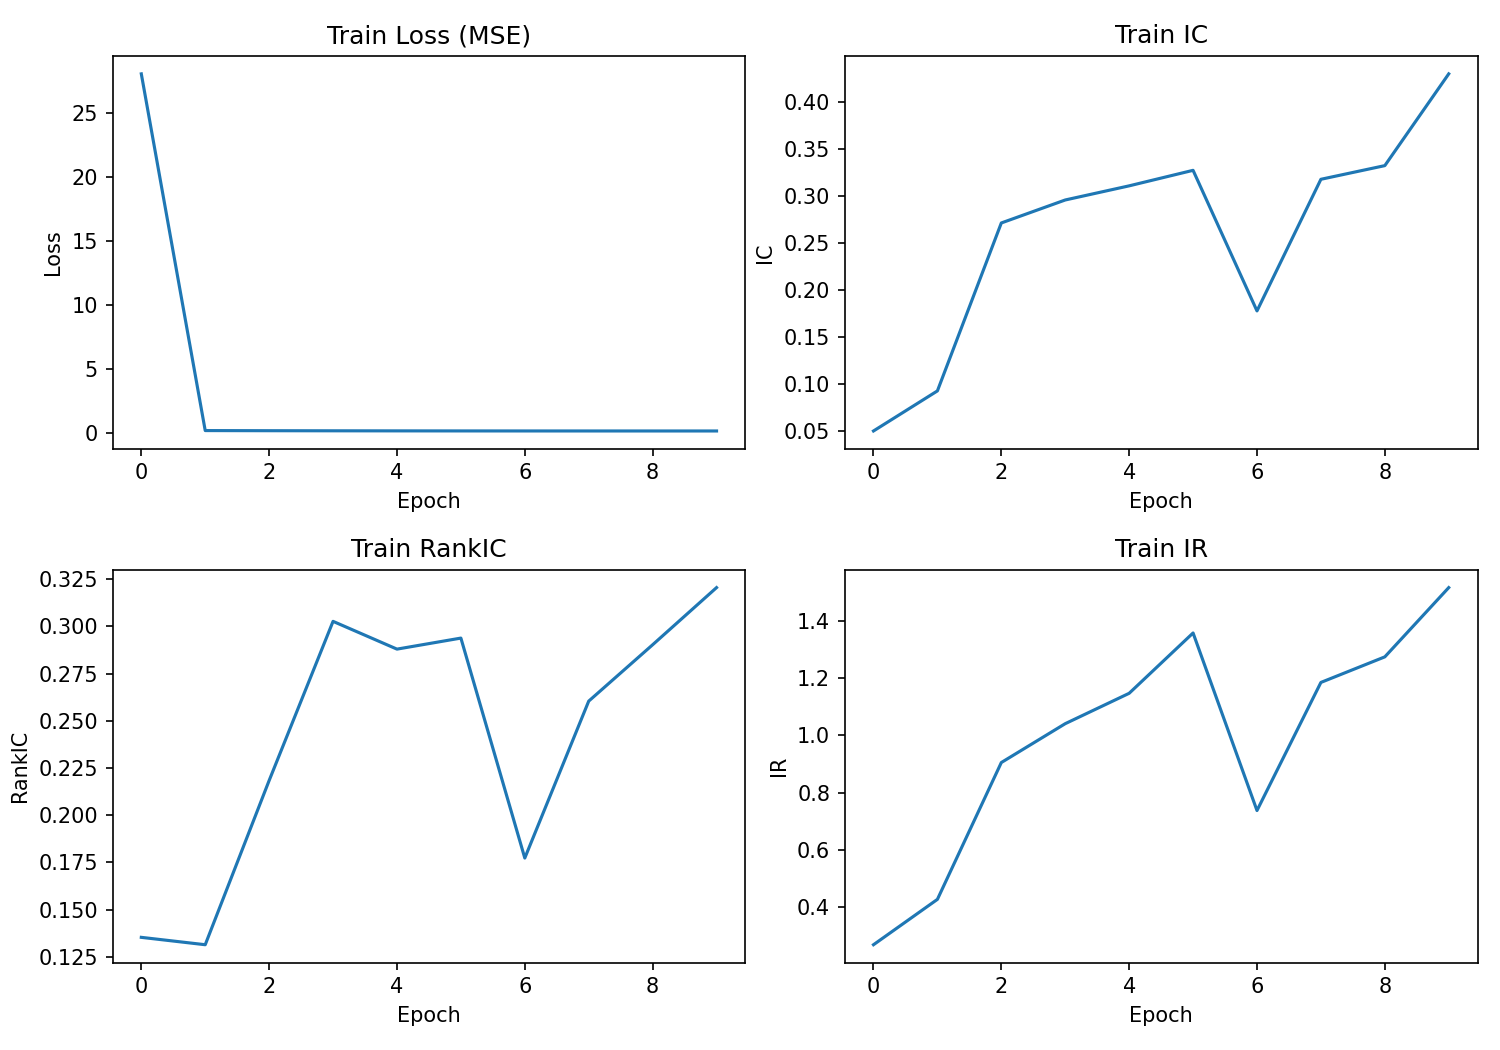
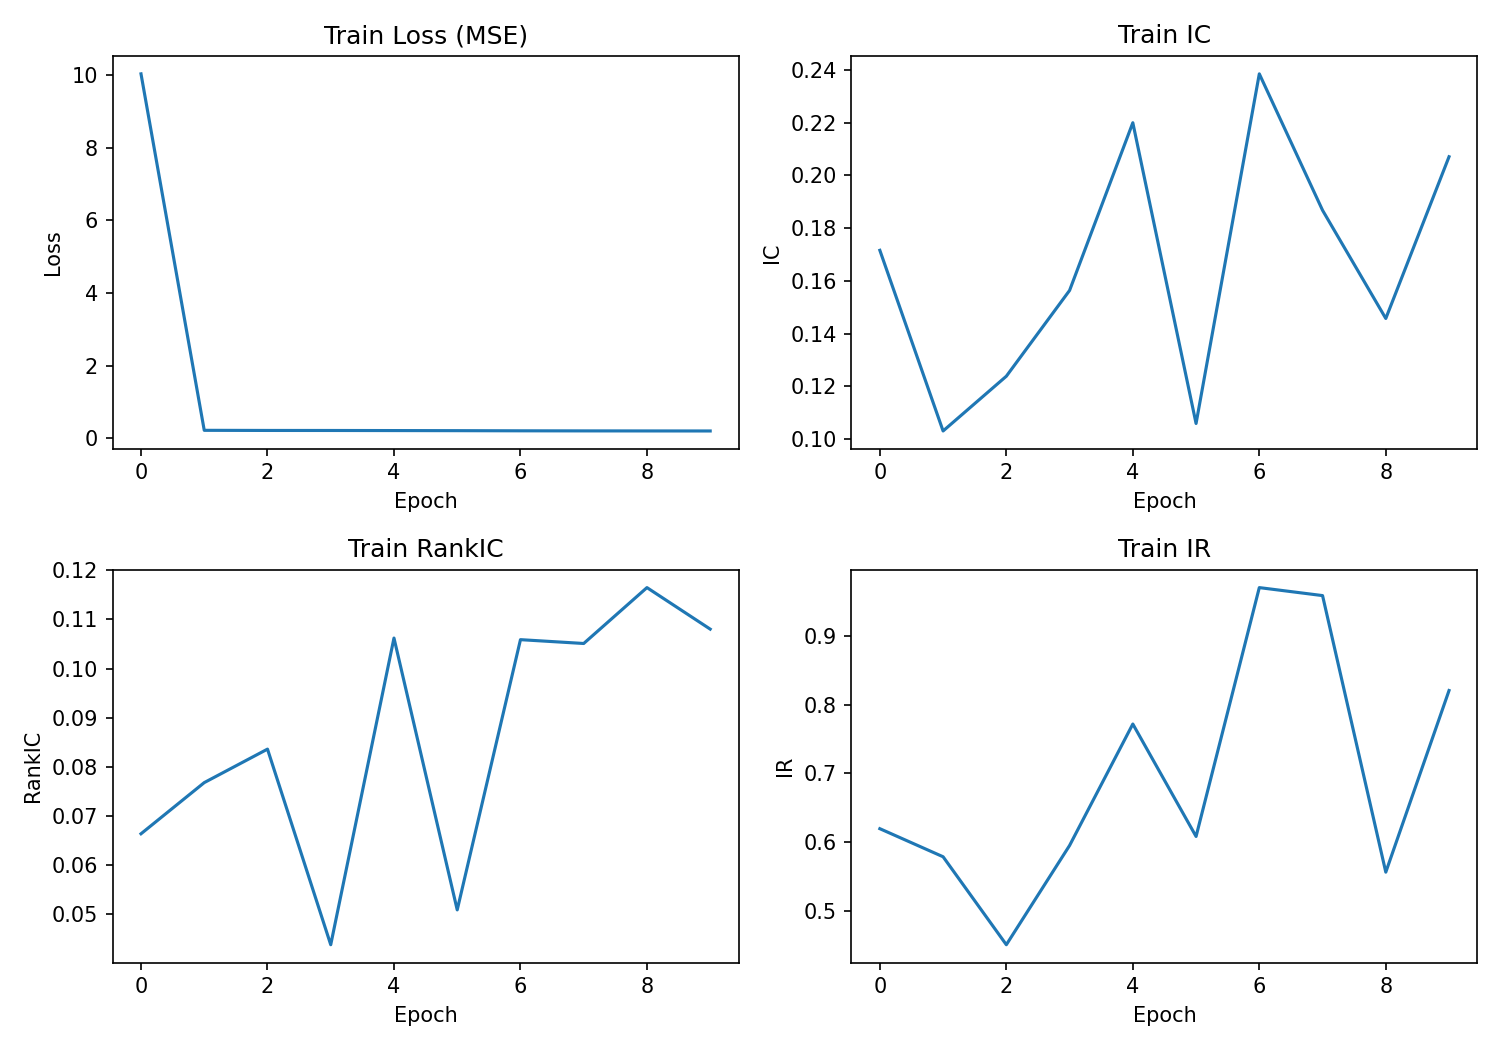
添加不同 linear attn 作为变种

diff --git a/KimiLinear/attn/gla_attn.py b/KimiLinear/attn/gla_attn.py
@@ -10,6 +10,7 @@ import torch.nn as nn
 import torch.nn.functional as F
 from einops import rearrange, repeat
 
+from KimiLinear.configuration import KimiLinearConfig
 from fla.layers.utils import get_unpad_data, index_first_axis, pad_input
 from fla.modules import FusedRMSNormGated, RMSNorm, ShortConvolution
 from fla.modules.activations import ACT2FN
@@ -22,63 +23,16 @@ if TYPE_CHECKING:
 
 
 class GatedLinearAttention(nn.Module):
-    r"""
-    The layer implementaion for [Gated Linear Attention Transformers with Hardware-Efficient Training](https://arxiv.org/abs/2312.06635).  # noqa
-
-    Args:
-        mode (str, Optional):
-            Which GLA kernel to use.
-            Currently available: `chunk`, `fused_recurrent`, and `fused_chunk`.
-            Default: `chunk`.
-        hidden_size (int, Optional):
-            The hidden size of the input. Default: 1024.
-        expand_k (float, Optional):
-            The expansion ratio for the key dim. Default: 0.5.
-        expand_v (float, Optional):
-            The expansion ratio for the value dim. Default: 1.0.
-        num_heads (int, Optional):
-            The number of heads. Default: 4.
-        num_kv_heads (int, Optional):
-            The number of key/value heads, used for MQA. Default: None.
-        feature_map (str, Optional):
-            Feature map function applied to queries/keys. Default: None.
-        use_short_conv (bool, Optional):
-            Whether to use short convolutions. Default: `False`.
-        conv_size (int, Optional):
-            The kernel size of the short convolution, only used when `use_short_conv` is `True`. Default: 4.
-        conv_bias (bool, Optional):
-            Whether to use bias in the short convolution, only used when `use_short_conv` is `True`. Default: `False`.
-        use_output_gate (bool, Optional):
-            Whether to use output gate. Default: `True`.
-        gate_fn (str, Optional):
-            The activation function for the output gate. Default: `swish`.
-        elementwise_affine (bool, Optional):
-            If `True`, applies elementwise affine to LayerNorm with learnable parameters. Default: `True`.
-        norm_eps (float, Optional):
-            The epsilon value for the layernorm/rmsnorm layer. Default: 1e-5.
-        gate_logit_normalizer (int, Optional):
-            The normalizer for the gate logits, appied after `logsigmoid`. Default: 16.
-        gate_low_rank_dim (int, Optional):
-            The low rank dim for the gate projection. Default: 16.
-        clamp_min (float, Optional):
-            The minimum value for the gate logits. Default: None.
-        fuse_norm (bool, Optional):
-            Whether to fuse the norm and the output gate for better memory footprint. Default: `True`.
-        layer_idx (int, Optional):
-            The index of the layer. Default: None.
-    """
-
     def __init__(
         self,
+        config: KimiLinearConfig,
+        layer_idx: int,
         mode: str = 'chunk',
-        hidden_size: int = 1024,
-        expand_k: float = 0.5,
+        expand_k: float = 1.0,
         expand_v: float = 1.0,
-        num_heads: int = 4,
         num_kv_heads: int | None = None,
         feature_map: str | None = None,
-        use_short_conv: bool = False,
-        conv_size: int = 4,
+        use_short_conv: bool = True,
         conv_bias: bool = False,
         use_output_gate: bool = True,
         gate_fn: str = 'swish',
@@ -88,9 +42,12 @@ class GatedLinearAttention(nn.Module):
         gate_low_rank_dim: int = 16,
         clamp_min: float | None = None,
         fuse_norm: bool = True,
-        layer_idx: int = None,
     ) -> GatedLinearAttention:
         super().__init__()
+
+        hidden_size = config.hidden_size
+        num_heads = config.linear_attn_config["num_heads"]
+        conv_size = config.linear_attn_config["short_conv_kernel_size"]
 
         self.mode = mode
         self.hidden_size = hidden_size
@@ -187,7 +144,8 @@ class GatedLinearAttention(nn.Module):
             )
 
         batch_size, q_len, _ = hidden_states.shape
-        mode = 'fused_recurrent' if hidden_states.shape[1] <= 64 else self.mode
+        # mode = 'fused_recurrent' if hidden_states.shape[1] <= 64 else self.mode
+        mode = "chunk"
 
         last_state = None
         if past_key_values is not None and len(past_key_values) > self.layer_idx:
@@ -297,4 +255,4 @@ class GatedLinearAttention(nn.Module):
         if attention_mask is not None:
             o = pad_input(o.squeeze(0), indices, batch_size, q_len)
 
-        return o, None, past_key_values
+        return o

diff --git a/fla/ops/common/chunk_h.py b/fla/ops/common/chunk_h.py
@@ -19,11 +19,12 @@ BKV_LIST = [32, 64] if check_shared_mem() else [16, 32]
 })
 @triton.autotune(
     configs=[
-        triton.Config({'BK': BK, 'BV': BV}, num_warps=num_warps, num_stages=num_stages)
+        # triton.Config({'BK': BK, 'BV': BV}, num_warps=num_warps, num_stages=num_stages)
+        triton.Config({'BK': BK, 'BV': BV})
         for BK in BKV_LIST
         for BV in BKV_LIST
-        for num_warps in [1, 2, 4, 8]
-        for num_stages in [2, 3, 4]
+        # for num_warps in [1, 2, 4, 8]
+        # for num_stages in [1, 2]
     ],
     key=['BT', 'USE_G', 'USE_GK', 'USE_GV'],
     **autotune_cache_kwargs,
@@ -58,15 +59,20 @@ def chunk_fwd_kernel_h(
     IS_VARLEN: tl.constexpr,
 ):
     i_k, i_v, i_nh = tl.program_id(0), tl.program_id(1), tl.program_id(2)
-    i_n, i_h = i_nh // H, i_nh % H
+    i_n = i_nh // H
+    i_h = i_nh % H
     if IS_VARLEN:
-        bos, eos = tl.load(cu_seqlens + i_n).to(tl.int32), tl.load(cu_seqlens + i_n + 1).to(tl.int32)
+        bos = tl.load(cu_seqlens + i_n).to(tl.int32)
+        eos = tl.load(cu_seqlens + i_n + 1).to(tl.int32)
         T = eos - bos
-        NT, NS = tl.cdiv(T, BT), tl.cdiv(T, BS)
+        NT = tl.cdiv(T, BT)
+        NS = tl.cdiv(T, BS)
         boh = tl.load(split_offsets + i_n).to(tl.int32)
     else:
-        bos, eos = i_n * T, i_n * T + T
-        NT, NS = tl.cdiv(T, BT), tl.cdiv(T, BS)
+        bos = i_n * T
+        eos = i_n * T + T
+        NT = tl.cdiv(T, BT)
+        NS = tl.cdiv(T, BS)
         boh = i_n * NS
     NTS = BS // BT
 
@@ -146,11 +152,12 @@ def chunk_fwd_kernel_h(
 })
 @triton.autotune(
     configs=[
-        triton.Config({'BK': BK, 'BV': BV}, num_warps=num_warps, num_stages=num_stages)
+        # triton.Config({'BK': BK, 'BV': BV}, num_warps=num_warps, num_stages=num_stages)
+        triton.Config({'BK': BK, 'BV': BV})
         for BK in BKV_LIST
         for BV in BKV_LIST
-        for num_warps in [1, 2, 4, 8]
-        for num_stages in [2, 3, 4]
+        # for num_warps in [1, 2, 4, 8]
+        # for num_stages in [2, 3, 4]
     ],
     key=['BT', 'USE_G', 'USE_GK', 'USE_GV'],
     **autotune_cache_kwargs,
@@ -188,16 +195,19 @@ def chunk_bwd_kernel_dh(
     IS_VARLEN: tl.constexpr,
 ):
     i_k, i_v, i_nh = tl.program_id(0), tl.program_id(1), tl.program_id(2)
-    i_n, i_hq = i_nh // HQ, i_nh % HQ
+    i_n = i_nh // HQ
+    i_hq = i_nh % HQ
     i_h = i_hq // NG
     if IS_VARLEN:
-        bos, eos = tl.load(cu_seqlens + i_n).to(tl.int32), tl.load(cu_seqlens + i_n + 1).to(tl.int32)
+        bos = tl.load(cu_seqlens + i_n).to(tl.int32)
+        eos = tl.load(cu_seqlens + i_n + 1).to(tl.int32)
         T = eos - bos
         NT = tl.cdiv(T, BT)
         NS = tl.cdiv(T, BS)
         boh = tl.load(split_offsets + i_n).to(tl.int32)
     else:
-        bos, eos = i_n * T, i_n * T + T
+        bos = i_n * T
+        eos = i_n * T + T
         NT = tl.cdiv(T, BT)
         NS = tl.cdiv(T, BS)
         boh = i_n * NS

diff --git a/baseline_inference.py b/baseline_inference.py
@@ -60,13 +60,14 @@ def parse_args():
     parser.add_argument("--mmap-mode", type=str, default="r")
     parser.add_argument("--time-stride", type=int, default=3)
     parser.add_argument("--T_cycle", type=int, default=1)
+    parser.add_argument("--attn_type", type=str, default="gla", choices=["kda", "cyclekda", "gated_deltanet", "gla"])
     parser.add_argument("--batch-size", type=int, default=64)
     parser.add_argument("--num-workers", type=int, default=0)
-    parser.add_argument("--ckpt-dir", type=str, default="baseline_kimi_ckpt")
+    parser.add_argument("--ckpt-dir", type=str, default="gla_ckpt")
     parser.add_argument("--weights-file", type=str, default="pytorch_model.bin")
     parser.add_argument("--max-test-samples", type=int, default=0, help="0 means all test samples")
     parser.add_argument("--output-dir", type=str, default="/home/chenxuanyu/code/CycleKDA/pred2", help="Directory for inference outputs.")
-    parser.add_argument("--pred-out", type=str, default="baseline_test_pred.npy")
+    parser.add_argument("--pred-out", type=str, default="gla_test_pred.npy")
     return parser.parse_args()
 
 
@@ -77,6 +78,7 @@ def load_model(args, input_size, output_size):
 
     cfg_json["input_size"] = input_size
     cfg_json["output_size"] = output_size
+    cfg_json["attn_type"] = args.attn_type
     config = KimiLinearConfig(**cfg_json)
     config.linear_attn_config["T_cycle"] = args.T_cycle
 
@@ -166,8 +168,11 @@ def evaluate_and_save(args):
 
 
 def main():
+    global MODEL_DTYPE
     args = parse_args()
     assert args.T_cycle == 1, "baseline inference expects T_cycle == 1"
+    if (args.attn_type == "gated_deltanet") and MODEL_DTYPE == torch.bfloat16:
+        MODEL_DTYPE = torch.float32
     evaluate_and_save(args)
 
 

diff --git a/evaluate.py b/evaluate.py
@@ -53,9 +53,9 @@ def parse_args():
 	parser.add_argument("--labels-file", type=str, default="labels.npy")
 	parser.add_argument("--indexes-file", type=str, default="index.h5")
 	parser.add_argument("--mmap-mode", type=str, default="r")
-	parser.add_argument("--pred-path", type=str, default="/home/chenxuanyu/code/CycleKDA/pred2/lstm_test_pred.npy")
-	parser.add_argument("--output-dir", type=str, default="/home/chenxuanyu/code/CycleKDA/pred2/lstm")
-	parser.add_argument("--prefix", type=str, default="lstm")
+	parser.add_argument("--pred-path", type=str, default="/home/chenxuanyu/code/CycleKDA/pred2/gla_test_pred.npy")
+	parser.add_argument("--output-dir", type=str, default="/home/chenxuanyu/code/CycleKDA/pred2/gla")
+	parser.add_argument("--prefix", type=str, default="gla")
 	parser.add_argument("--max-test-samples", type=int, default=0, help="0 means all test samples")
 	return parser.parse_args()
 

diff --git a/KimiLinear/layer.py b/KimiLinear/layer.py
@@ -27,8 +27,8 @@ class KimiDecoderLayer(nn.Module):
                 from .attn.gated_deltanet_attn import GatedDeltaNet
                 self.self_attn = GatedDeltaNet(config=config, layer_idx=layer_idx)
             elif config.attn_type == "gla":
-                from .attn.rwkv7_attn import RWKV7Attention
-                self.self_attn = RWKV7Attention(config=config, layer_idx=layer_idx)
+                from .attn.gla_attn import GatedLinearAttention
+                self.self_attn = GatedLinearAttention(config=config, layer_idx=layer_idx)
             else:
                 raise ValueError(f"Unsupported attn_type: {config.attn_type}")
         elif config.is_mla:

diff --git a/baseline_train.py b/baseline_train.py
@@ -386,7 +386,8 @@ def main():
     args = parse_args()
     assert args.T_cycle == 1
     logger = setup_logger(args)
-    if args.attn_type == "gated_deltanet" and MODEL_DTYPE == torch.bfloat16:
+    # if (args.attn_type == "gated_deltanet" or args.attn_type == "gla") and MODEL_DTYPE == torch.bfloat16:
+    if (args.attn_type == "gated_deltanet") and MODEL_DTYPE == torch.bfloat16:
         logger.warning("Using gated_deltanet with bfloat16 may lead to triton 2.1.0 bug, transfering to float32")
         MODEL_DTYPE = torch.float32
     

diff --git a/KimiLinear/attn/gated_deltanet_attn.py b/KimiLinear/attn/gated_deltanet_attn.py
@@ -38,7 +38,7 @@ class GatedDeltaNet(nn.Module):
         self,
         config: KimiLinearConfig,
         layer_idx: int,
-        expand_v: float = 2,
+        expand_v: float = 1,
         num_v_heads: int = None,
         mode: str = 'chunk',
         use_gate: bool = True,

diff --git a/evaluate_cal.py b/evaluate_cal.py
@@ -19,7 +19,7 @@ def parse_args():
 	parser.add_argument(
 		"--targets",
 		type=str,
-		default="lstm",
+		default="gla",
 		help="Comma-separated evaluation folder names under pred-root.",
 	)
 	parser.add_argument(
